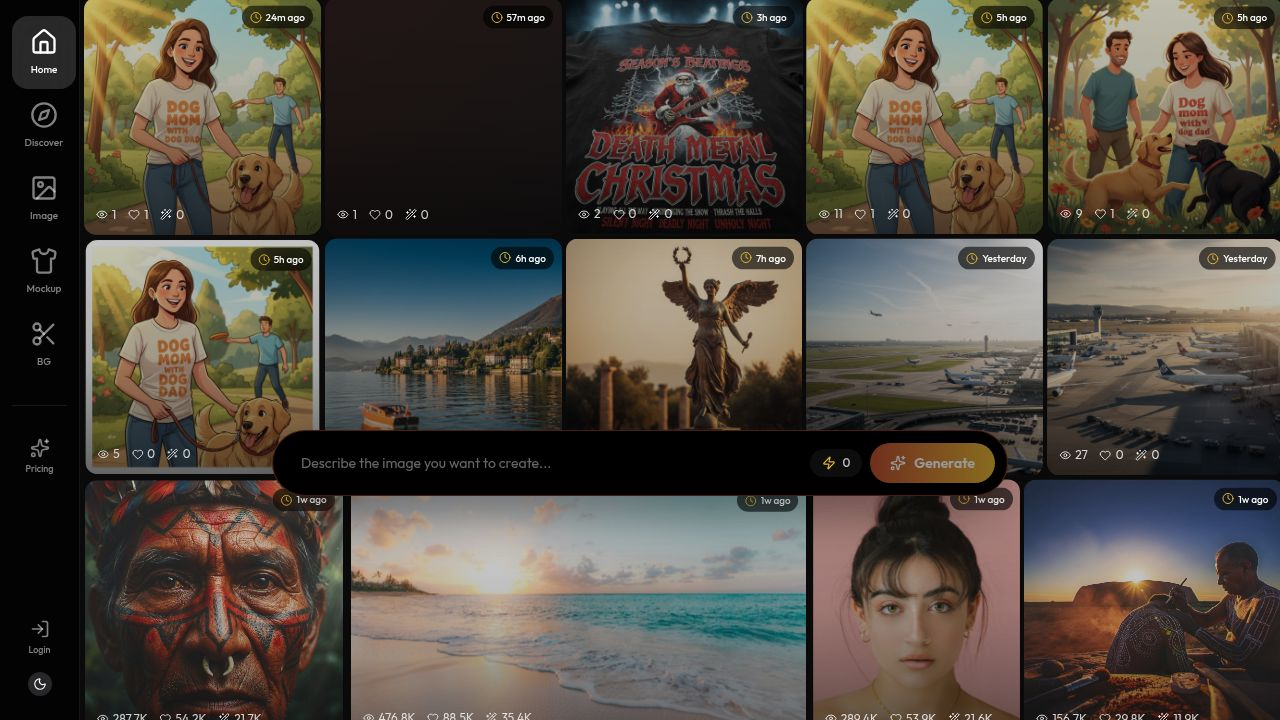
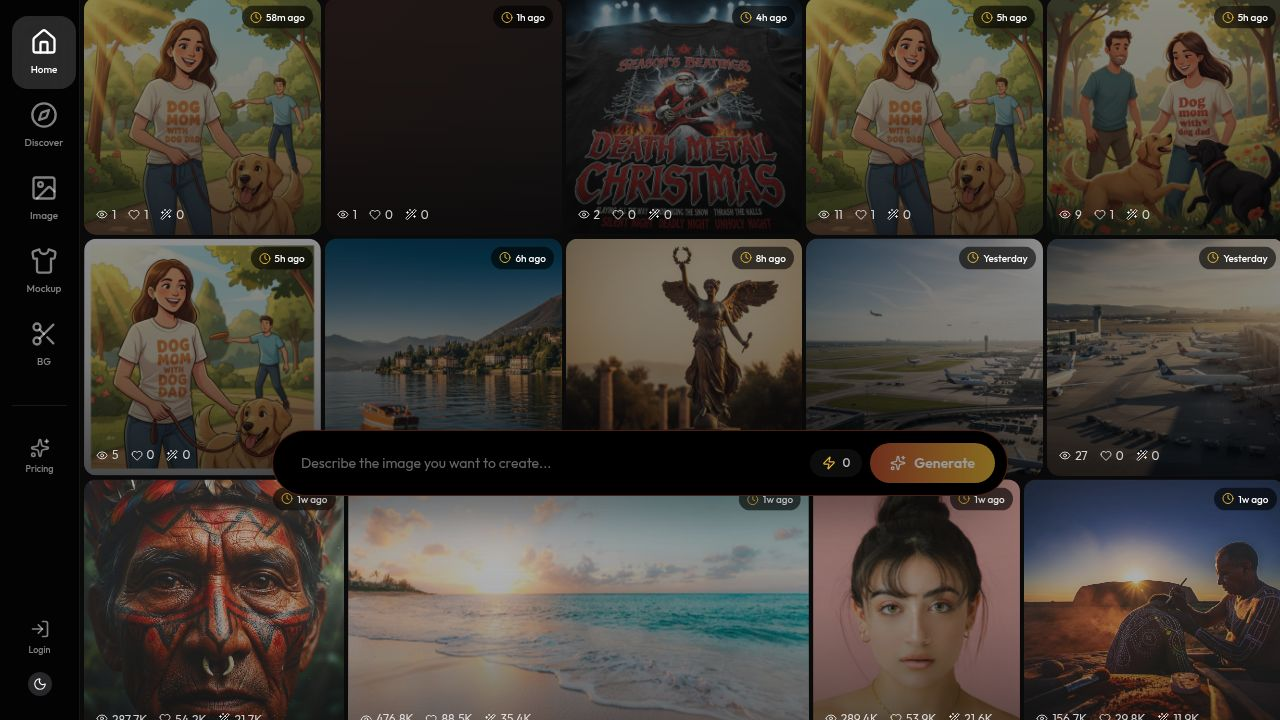
Lighten modal background and reduce blurriness for better visibility
Update the modal overlay in `my-creations.tsx` to use `bg-black/20` and `backdrop-blur-md` for a lighter appearance and reduced blur.

Replit-Commit-Author: Agent
Replit-Commit-Session-Id: 1e39d0f6-4a28-4393-8d80-36d65bd5c78b
Replit-Commit-Checkpoint-Type: full_checkpoint
Replit-Commit-Event-Id: 3945ab0b-9671-44af-9c3f-89ca04655c36
Replit-Commit-Screenshot-Url: https://storage.googleapis.com/screenshot-production-us-central1/038d2743-2a43-4c19-827e-eced61ebec4a/1e39d0f6-4a28-4393-8d80-36d65bd5c78b/zPw8fTD
Replit-Helium-Checkpoint-Created: true

diff --git a/client/src/pages/my-creations.tsx b/client/src/pages/my-creations.tsx
@@ -829,7 +829,7 @@ export default function MyCreations() {
             initial={{ opacity: 0 }}
             animate={{ opacity: 1 }}
             exit={{ opacity: 0 }}
-            className="fixed inset-0 z-[100] bg-black/40 backdrop-blur-2xl flex items-center justify-center p-6"
+            className="fixed inset-0 z-[100] bg-black/20 backdrop-blur-md flex items-center justify-center p-6"
             onClick={() => setSelectedItem(null)}
           >
             <div 
